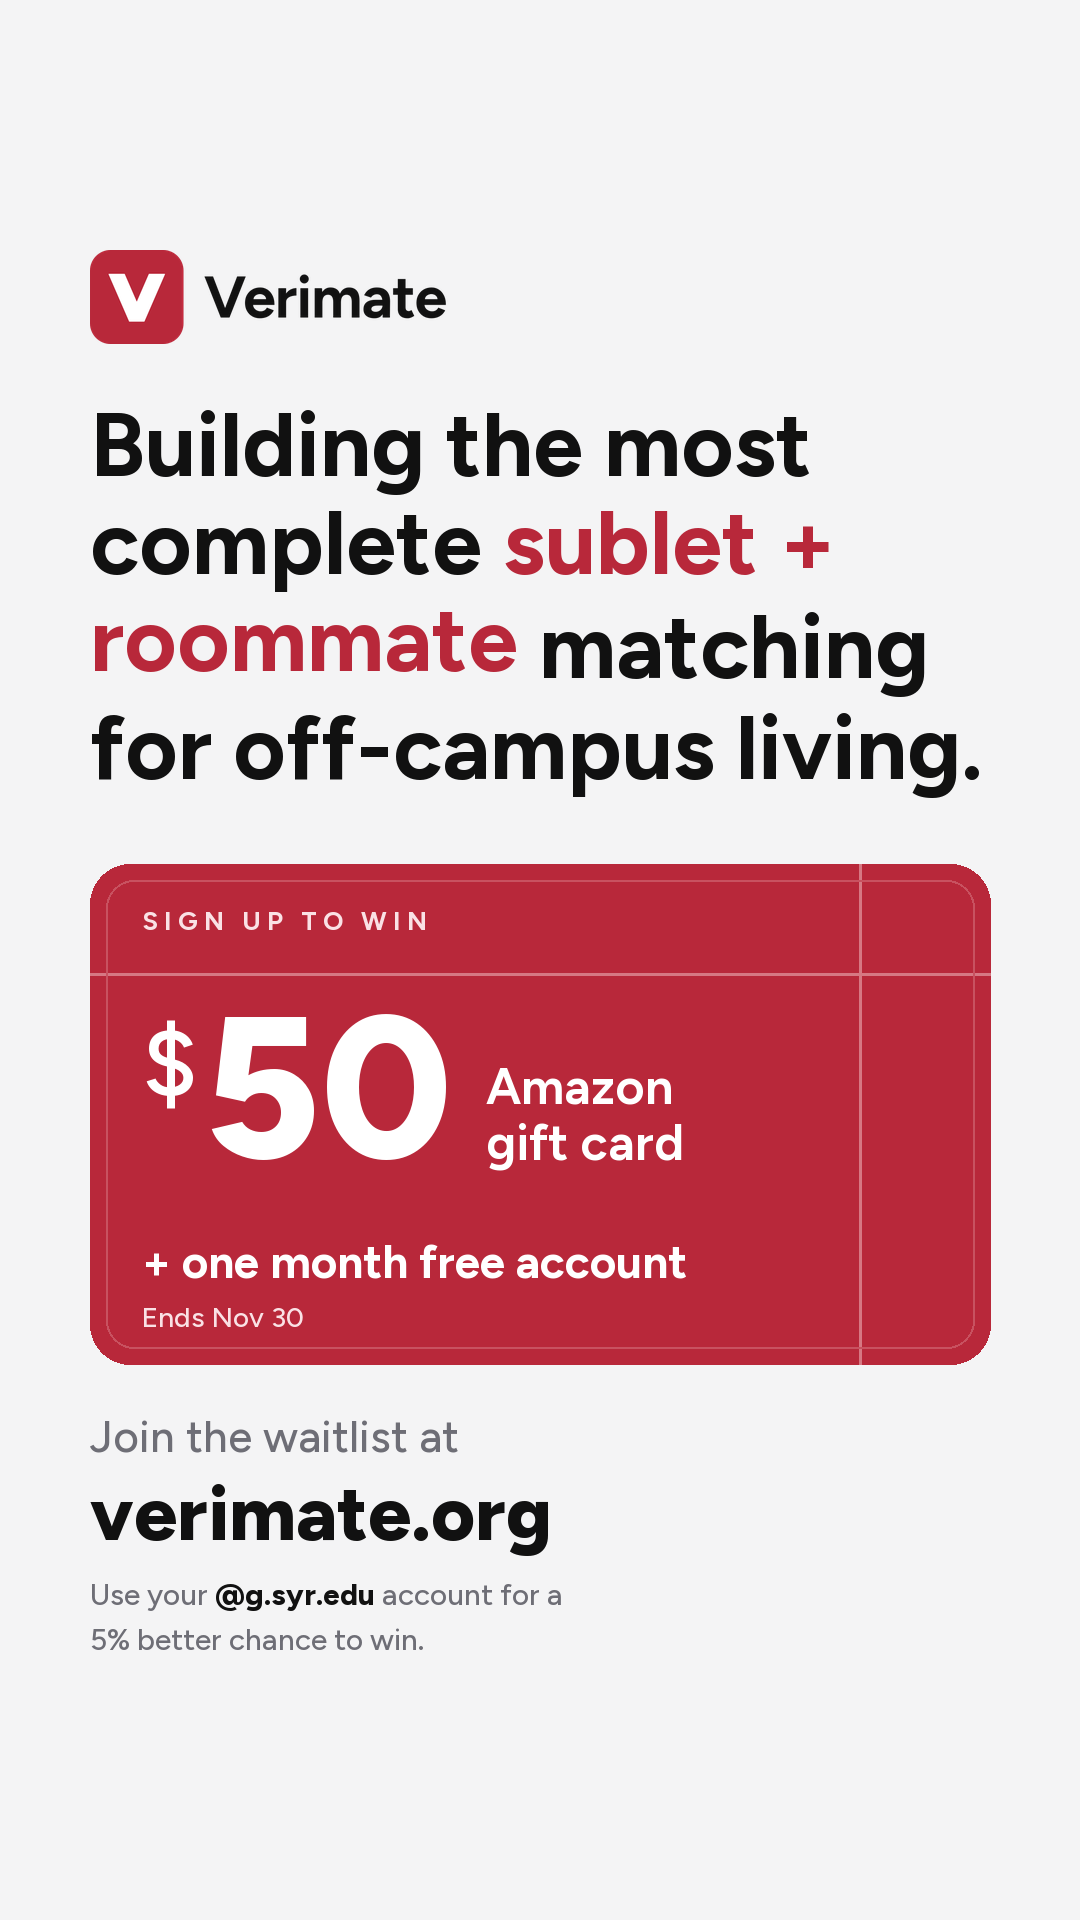
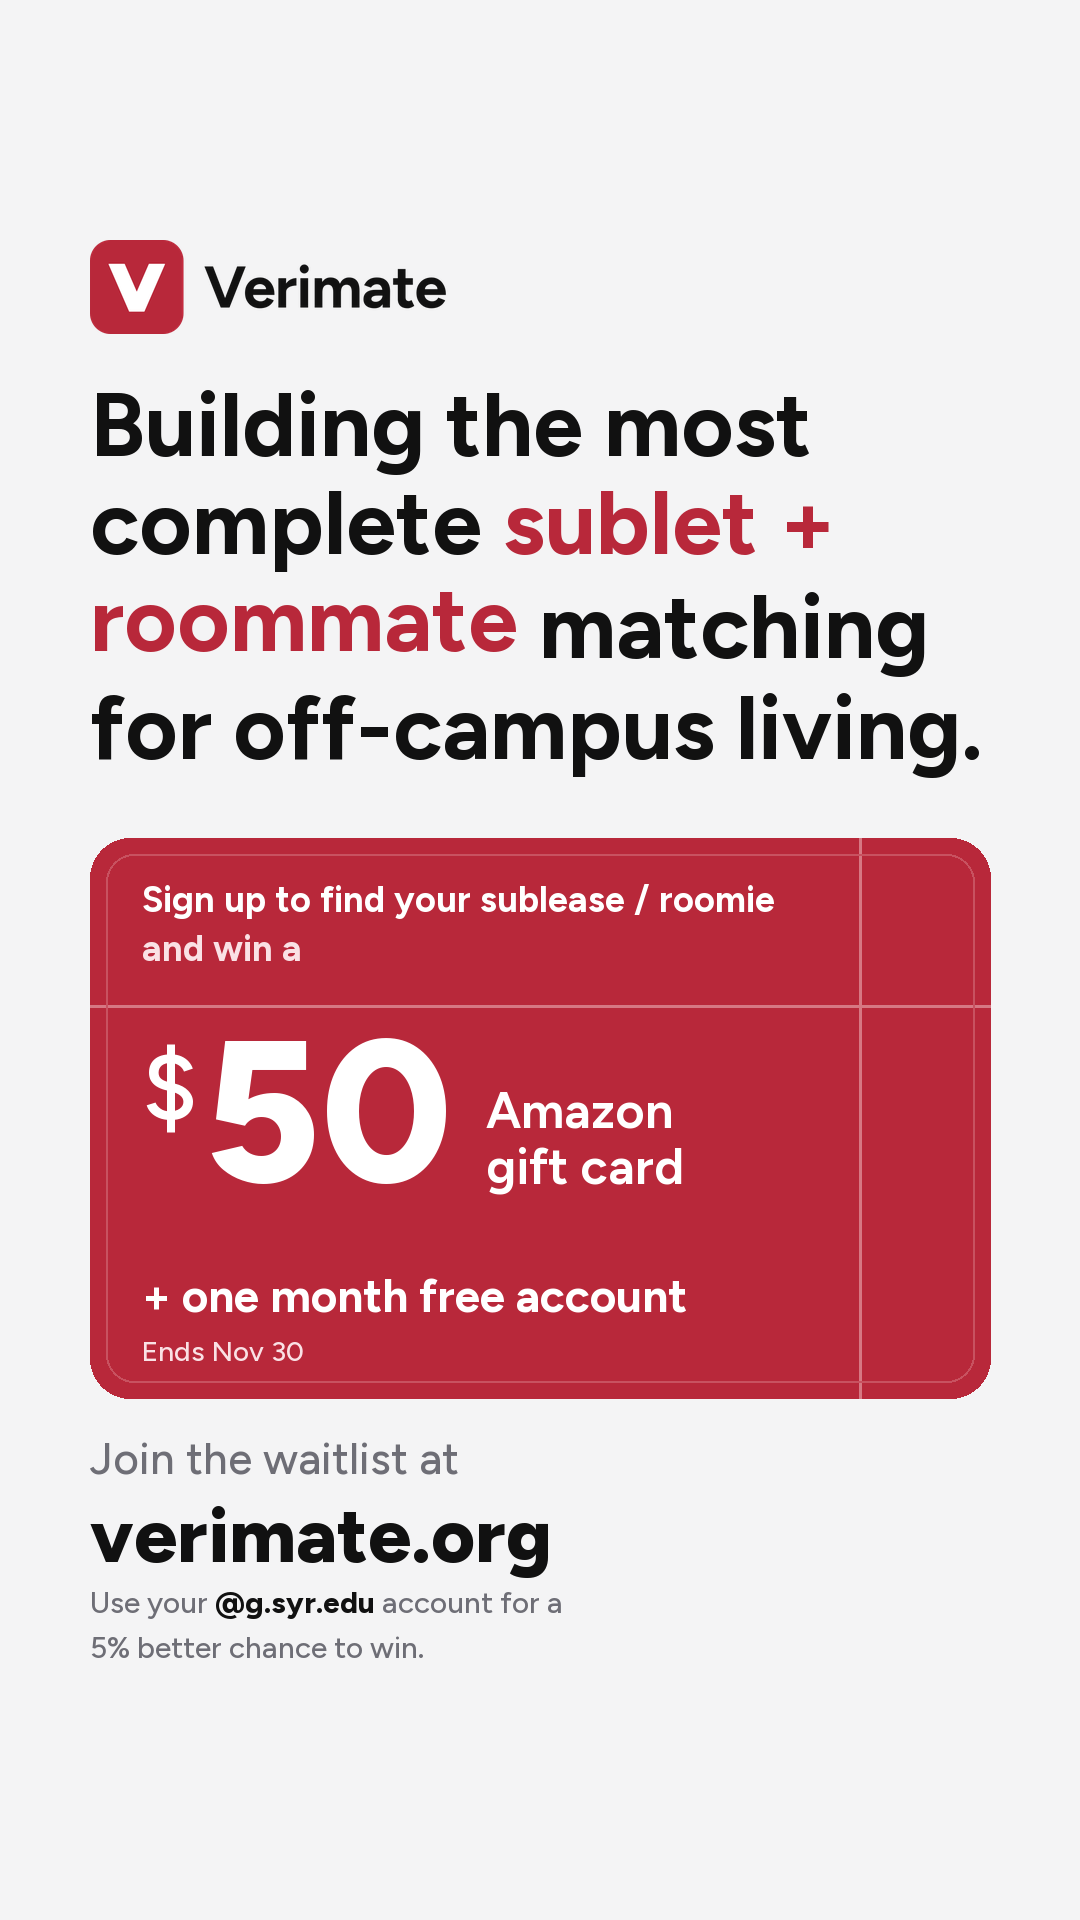
fix: security review #2 code fixes, and the story's sign-up line
- Session cookies are Secure in production (shared cookieOptions for the
  browser, server and proxy clients).
- Permissions-Policy turns off camera, microphone, geolocation and topics.
- A bad study_abroad_plans value no longer crashes the page.
- The ?ref code from an invite link is forgotten once it's saved, and a
  saved code whose owner deleted their data is dropped instead of blocking
  saves.
- The privacy policy names OpenFreeMap; the rules email winners at the
  address they signed in with.
- Instagram story card: "Sign up to find your sublease / roomie and win a
  $50 Amazon gift card".

Changed region(s): [[0.0611, 0.125, 0.9167, 0.875]]

diff --git a/components/waitlist/waitlist-page.tsx b/components/waitlist/waitlist-page.tsx
@@ -41,6 +41,7 @@ import {
 } from "@/lib/rules/waitlist";
 import { cn } from "@/lib/utils";
 import {
+  forgetReferral,
   InvalidReferralCode,
   loadReferralCount,
   loadWaitlist,
@@ -348,12 +349,33 @@ function Survey({
   async function next() {
     setSaving(true);
     try {
-      const { completedAt, referralCode } = await saveWaitlist(
-        session,
-        answers,
-      );
-      const saved = { ...session, answers, completedAt, referralCode };
-      const open = firstOpenStep(answers);
+      let toSave = answers;
+      let result: Awaited<ReturnType<typeof saveWaitlist>>;
+      try {
+        result = await saveWaitlist(session, toSave);
+      } catch (error) {
+        // A code saved earlier stops working if its owner deleted their
+        // data: drop it and save again instead of blocking the student.
+        const stale =
+          error instanceof InvalidReferralCode &&
+          toSave.referredBy !== null &&
+          toSave.referredBy === session.answers.referredBy;
+        if (!stale) throw error;
+        toSave = { ...toSave, referredBy: null };
+        setAnswers(toSave);
+        result = await saveWaitlist(session, toSave);
+        toast("That referral code no longer exists, so we removed it.");
+      }
+      // The friend's code from an invite link has done its job.
+      if (toSave.referredBy) forgetReferral();
+      const { completedAt, referralCode } = result;
+      const saved = {
+        ...session,
+        answers: toSave,
+        completedAt,
+        referralCode,
+      };
+      const open = firstOpenStep(toSave);
       if (isLast) {
         if (open) onStep(open, saved);
         else onDone(saved);

diff --git a/docs/brand/flyer/scripts/poster_image.js b/docs/brand/flyer/scripts/poster_image.js
@@ -10,8 +10,14 @@ const [, , IMAGE, OUT] = process.argv;
   const s = pres.addSlide({ sectionTitle: "Poster" });
   s.background = { color: "F4F4F5" };
   s.addImage({
-    path: IMAGE, x: 0, y: 0, w: 17, h: 11, objectName: "Poster",
-    altText: "Verimate waitlist poster: Building the most complete sublet + roommate matching for off-campus living. Sign up to win a $50 Amazon gift card plus one month free. Scan the QR code or visit verimate.org; sign in with your @g.syr.edu account for a 5% better chance to win.",
+    path: IMAGE,
+    x: 0,
+    y: 0,
+    w: 17,
+    h: 11,
+    objectName: "Poster",
+    altText:
+      "Verimate waitlist poster: Building the most complete sublet + roommate matching for off-campus living. Sign up to win a $50 Amazon gift card plus one month free. Scan the QR code or visit verimate.org; sign in with your @g.syr.edu account for a 5% better chance to win.",
   });
   await pres.writeFile({ fileName: OUT });
   console.log("wrote", OUT);

diff --git a/app/privacy/page.tsx b/app/privacy/page.tsx
@@ -56,8 +56,9 @@ export default function PrivacyPage() {
             or landlords. If the app later uses them in your profile, we'll ask
             you first. We use these services to run the site, and they handle
             data only to provide them: Supabase (database, photo storage and
-            sign-in), Vercel (hosting), Google (sign-in) and OpenStreetMap (the
-            map on the survey, which your browser loads directly).
+            sign-in), Vercel (hosting), Google (sign-in) and OpenFreeMap (the
+            map on the survey, built on OpenStreetMap data, which your browser
+            loads directly).
           </Section>
           <Section title="How long we keep it">
             Until Verimate launches, so we can invite you, or until you ask us

diff --git a/lib/rules/waitlist.ts b/lib/rules/waitlist.ts
@@ -163,13 +163,17 @@ export function decodeAbroadPlans(
   stored: string[] | null,
 ): AbroadPlan[] | null {
   if (!stored) return null;
-  return stored.map((item) => {
-    const [term, place] = item.split(":");
-    return {
-      term: term as Term,
-      place: place ? (place as AbroadPlace) : null,
-    };
-  });
+  // Skips anything that isn't a "term:place" string rather than crashing.
+  const plans = stored
+    .filter((item): item is string => typeof item === "string")
+    .map((item) => {
+      const [term, place] = item.split(":");
+      return {
+        term: term as Term,
+        place: place ? (place as AbroadPlace) : null,
+      };
+    });
+  return plans.length ? plans : null;
 }
 
 export function stepsLeft(a: WaitlistAnswers): number {

diff --git a/app/raffle-rules/page.tsx b/app/raffle-rules/page.tsx
@@ -70,8 +70,9 @@ export default function RaffleRulesPage() {
           </Rule>
           <Rule title="Drawing and notification">
             We'll draw one winner at random from all eligible entries by{" "}
-            {RAFFLE.drawnBy} and email them at their school address. If the
-            winner doesn't reply within 7 days, we'll draw another winner.
+            {RAFFLE.drawnBy} and email them at the address they signed in with.
+            If the winner doesn't reply within 7 days, we'll draw another
+            winner.
           </Rule>
           <Rule title="Your information">
             We use your school email, name, photo and answers to run the raffle,

diff --git a/lib/supabase/proxy.ts b/lib/supabase/proxy.ts
@@ -1,5 +1,6 @@
 import { createServerClient } from "@supabase/ssr";
 import { type NextRequest, NextResponse } from "next/server";
+import { cookieOptions } from "./cookies";
 
 // 每个请求刷新 Supabase 会话 cookie，由根目录 proxy.ts 调用。只刷新，不拦截页面：
 // demo 允许未登录浏览，访问控制以后用服务端 getClaims() 和 RLS 做。
@@ -13,6 +14,7 @@ export async function updateSession(request: NextRequest) {
 
   // 每个请求新建 client，不要放全局变量
   const supabase = createServerClient(url, key, {
+    cookieOptions,
     cookies: {
       getAll() {
         return request.cookies.getAll();

diff --git a/lib/supabase/server.ts b/lib/supabase/server.ts
@@ -1,5 +1,6 @@
 import { createServerClient } from "@supabase/ssr";
 import { cookies } from "next/headers";
+import { cookieOptions } from "./cookies";
 import { supabasePublishableKey, supabaseUrl } from "./env";
 
 // Server Components / Server Functions / Route Handlers 使用；每个请求新建一个
@@ -7,6 +8,7 @@ export async function createClient() {
   const cookieStore = await cookies();
 
   return createServerClient(supabaseUrl, supabasePublishableKey, {
+    cookieOptions,
     cookies: {
       getAll() {
         return cookieStore.getAll();

diff --git a/lib/supabase/client.ts b/lib/supabase/client.ts
@@ -1,7 +1,10 @@
 import { createBrowserClient } from "@supabase/ssr";
+import { cookieOptions } from "./cookies";
 import { supabasePublishableKey, supabaseUrl } from "./env";
 
 // Client Components（浏览器端）使用；createBrowserClient 内部是单例
 export function createClient() {
-  return createBrowserClient(supabaseUrl, supabasePublishableKey);
+  return createBrowserClient(supabaseUrl, supabasePublishableKey, {
+    cookieOptions,
+  });
 }

diff --git a/next.config.ts b/next.config.ts
@@ -40,6 +40,11 @@ const nextConfig: NextConfig = {
           { key: "Content-Security-Policy", value: csp },
           { key: "X-Content-Type-Options", value: "nosniff" },
           { key: "Referrer-Policy", value: "strict-origin-when-cross-origin" },
+          {
+            key: "Permissions-Policy",
+            value:
+              "camera=(), microphone=(), geolocation=(), browsing-topics=()",
+          },
         ],
       },
     ];

diff --git a/lib/waitlist/api.ts b/lib/waitlist/api.ts
@@ -210,6 +210,12 @@ export function rememberReferral(code: string) {
   } catch {}
 }
 
+export function forgetReferral() {
+  try {
+    localStorage.removeItem(REF_KEY);
+  } catch {}
+}
+
 export function rememberedReferral(): string | null {
   try {
     return localStorage.getItem(REF_KEY);

diff --git a/lib/supabase/cookies.ts b/lib/supabase/cookies.ts
@@ -1,0 +1,6 @@
+// 会话 cookie 的公共设置：生产环境只走 HTTPS（Secure）。
+// 不放在 env.ts 里，因为 proxy.ts 在缺环境变量时也要能导入。
+export const cookieOptions = {
+  secure: process.env.NODE_ENV === "production",
+  sameSite: "lax" as const,
+};

diff --git a/docs/brand/flyer/scripts/story.py b/docs/brand/flyer/scripts/story.py
@@ -37,7 +37,7 @@ def text_top(x, y, s, f, fill):
 logo = Image.open(f"{D}/logo.png").convert("RGBA")
 lw = 360
 logo = logo.resize((lw, round(logo.height * lw / logo.width)), Image.LANCZOS)
-img.paste(logo, (M, 250), logo)
+img.paste(logo, (M, 240), logo)
 
 # Slogan, four lines sized to the width
 LINES = [
@@ -46,14 +46,14 @@ LINES = [
     [("roommate", RED), (" matching", INK)],
     [("for off-campus living.", INK)],
 ]
-size = 120
+size = 108
 while True:
     sf = font(size, 700)
     widest = max(sum(d.textlength(s, font=sf) for s, _ in line) for line in LINES)
     if widest <= W - 2 * M:
         break
     size -= 2
-y = 410
+y = 390
 for line in LINES:
     x = M
     for s, c in line:
@@ -61,16 +61,18 @@ for line in LINES:
     y += round(size * 1.12)
 
 # Gift card
-cx, cy, cw, ch = M, y + 50, W - 2 * M, 500
+cx, cy, cw, ch = M, y + 44, W - 2 * M, 560
 d.rounded_rectangle((cx, cy, cx + cw, cy + ch), radius=40, fill=RED)
 lc = (214, 120, 131)
 d.line((cx + cw - 130, cy, cx + cw - 130, cy + ch), fill=lc, width=3)
-d.line((cx, cy + 110, cx + cw, cy + 110), fill=lc, width=3)
+d.line((cx, cy + 168, cx + cw, cy + 168), fill=lc, width=3)
 d.rounded_rectangle((cx + 16, cy + 16, cx + cw - 16, cy + ch - 16), radius=28,
                     outline=(200, 82, 96), width=2)
-text_top(cx + 52, cy + 48, "S I G N   U P   T O   W I N", font(26, 700), PINK)
+lf = font(36, 700)
+text_top(cx + 52, cy + 46, "Sign up to find your sublease / roomie", lf, WHITE)
+text_top(cx + 52, cy + 96, "and win a", lf, PINK)
 nf, df = font(200, 800), font(100, 500)
-top = cy + 150
+top = cy + 200
 _, n_t, _, n_b = d.textbbox((0, 0), "50", font=nf)
 dw = text_top(cx + 52, top + 6, "$", df, WHITE)
 nx = cx + 52 + dw + 6
@@ -85,13 +87,13 @@ text_top(cx + 52, cy + ch - 120, "+ one month free account", font(46, 700), WHIT
 text_top(cx + 52, cy + ch - 56, "Ends Nov 30", font(28, 500), PINK)
 
 # Call to action
-y = cy + ch + 56
+y = cy + ch + 44
 text_top(M, y, "Join the waitlist at", font(44, 500), MUTED)
 text_top(M, y + 64, "verimate.org", font(76, 800), INK)
 
 # Sign-in policy
 pf, pb = font(30, 500), font(30, 750)
-y += 164
+y += 150
 x = M
 for s, f, c in [("Use your ", pf, MUTED), ("@g.syr.edu", pb, INK),
                 (" account for a", pf, MUTED)]:
